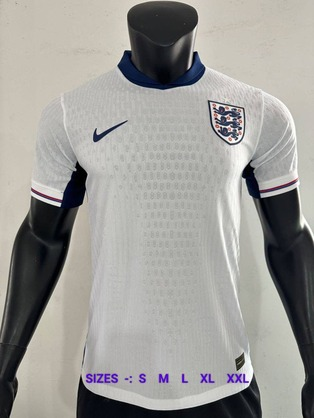
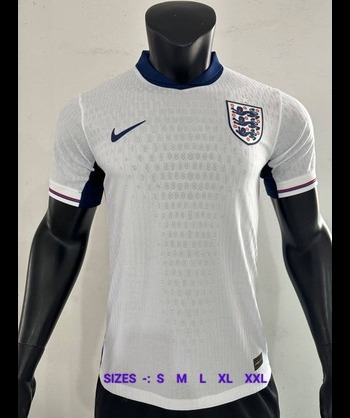
Image resized item responsive done

diff --git a/src/Components/Item/Item.css b/src/Components/Item/Item.css
@@ -1,6 +1,9 @@
 .item {
-  width: 350px;
-  margin-left: 10px;
+  width: 280px;
+}
+
+.item img {
+  width: 280px;
 }
 
 .item p {
@@ -30,7 +33,50 @@
   transition: 0.6s;
 }
 
-.tshirtimg {
-  width: 314px;
-  height: 418px;
+@media (max-width: 1280px) {
+  .item {
+    width: 220px;
+    font-size: 14px;
+  }
+  .item img {
+    width: 220px;
+  }
+  .item-price-old {
+    font-size: 14px;
+  }
+}
+
+@media (max-width: 1024px) {
+  .item {
+    width: 170px;
+    font-size: 13px;
+  }
+  .item img {
+    width: 170px;
+  }
+  .item-price-old {
+    font-size: 13px;
+  }
+}
+
+@media (max-width: 800px) {
+  .item {
+    width: 120px;
+    font-size: 12px;
+  }
+  .item img {
+    width: 120px;
+  }
+  .item-price-old {
+    font-size: 12px;
+  }
+}
+
+@media (max-width: 500px) {
+  .item {
+    width: 160px;
+  }
+  .item img {
+    width: 160px;
+  }
 }
